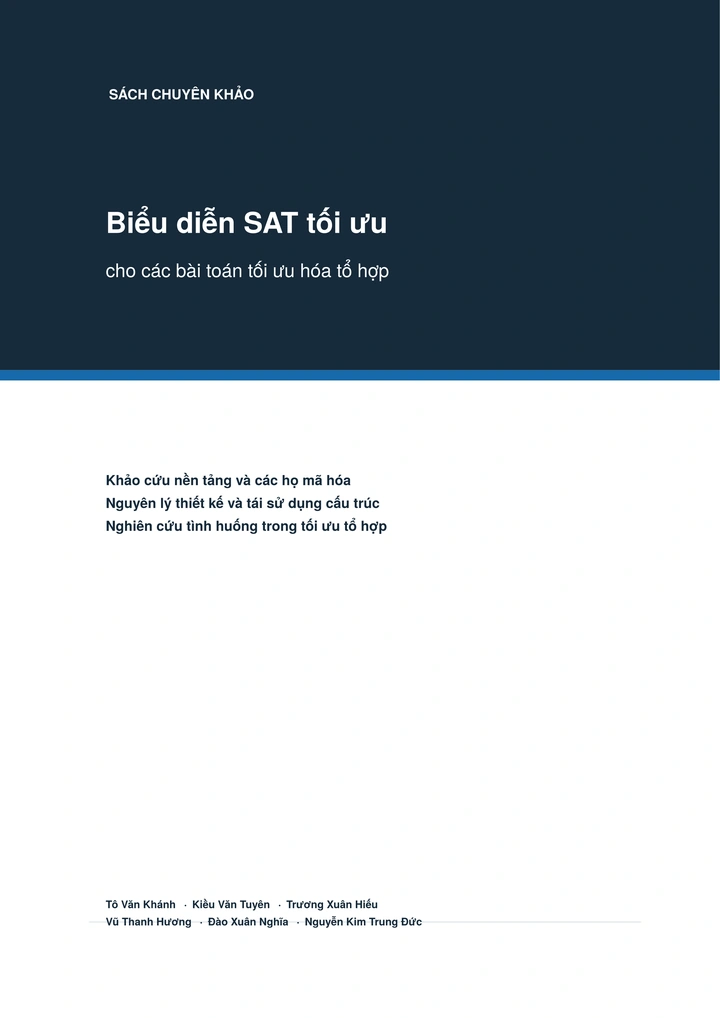
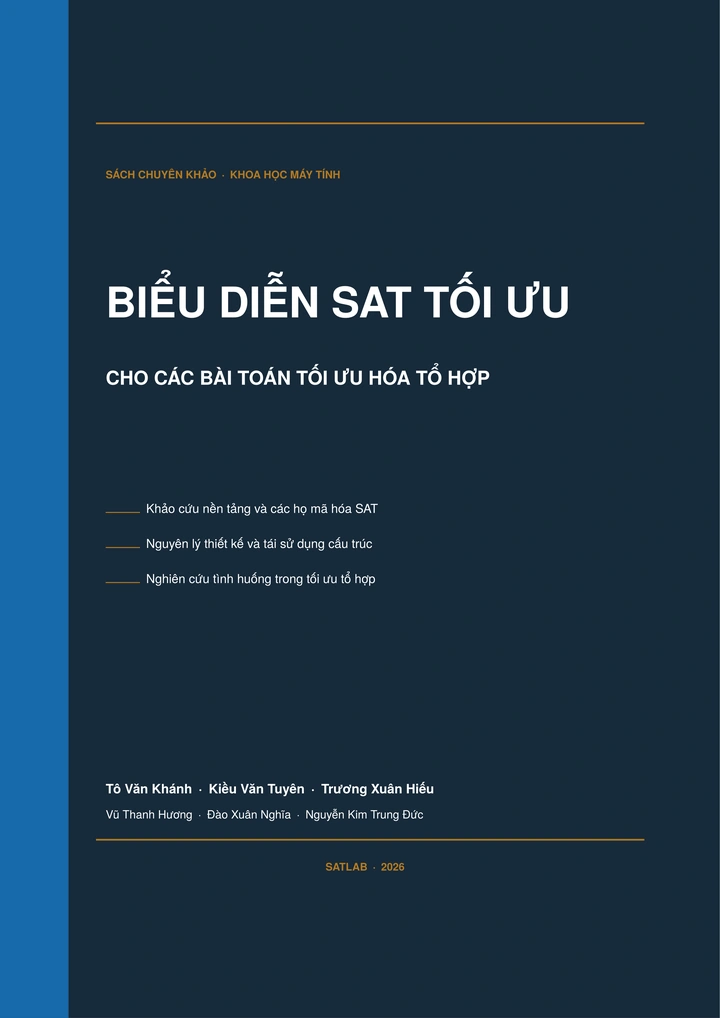
style(book): center SATLAB 2026 on cover titlepage and replace inner title page footer

diff --git a/book/main.tex b/book/main.tex
@@ -28,7 +28,7 @@
 \end{tikzpicture}
 
 \vspace*{18mm}
-{\sffamily\bfseries\fontsize{8.5}{11}\selectfont\color{Gold}%
+{\sffamily\bfseries\fontsize{11}{14}\selectfont\color{Gold}%
  SÁCH CHUYÊN KHẢO\enspace·\enspace KHOA HỌC MÁY TÍNH\par}
 
 \vspace{22mm}
@@ -38,16 +38,16 @@
 
 \vspace{10mm}
 
-{\sffamily\fontsize{18}{24}\selectfont\color{white}%
- Cho Các Bài Toán Tối Ưu Hóa Tổ Hợp\par}
+{\sffamily\bfseries\fontsize{20}{26}\selectfont\color{white}%
+ CHO CÁC BÀI TOÁN TỐI ƯU HÓA TỔ HỢP\par}
 
-\vspace{32mm}
+\vspace{30mm}
 
-{\sffamily\fontsize{11}{18}\selectfont\color{white}%
+{\sffamily\fontsize{12.5}{20}\selectfont\color{white}%
  {\color{Gold}\rule{10mm}{0.8pt}}\enspace
- Khảo cứu nền tảng và các họ mã hóa SAT\par\vspace{7pt}%
+ Khảo cứu nền tảng và các họ mã hóa SAT\par\vspace{8pt}%
  {\color{Gold}\rule{10mm}{0.8pt}}\enspace
- Nguyên lý thiết kế và tái sử dụng cấu trúc\par\vspace{7pt}%
+ Nguyên lý thiết kế và tái sử dụng cấu trúc\par\vspace{8pt}%
  {\color{Gold}\rule{10mm}{0.8pt}}\enspace
  Nghiên cứu tình huống trong tối ưu tổ hợp\par}
 
@@ -64,8 +64,8 @@
  Nguyễn Kim Trung Đức\par}
 
 \vspace{10mm}
-{\sffamily\bfseries\fontsize{8}{10}\selectfont\color{Gold}%
- SATLAB RESEARCH GROUP\enspace·\enspace 2026\par}
+{\centering\sffamily\bfseries\fontsize{11}{14}\selectfont\color{Gold}%
+ SATLAB\enspace·\enspace 2026\par}
 \vspace{16mm}
 
 \end{titlepage}
@@ -84,19 +84,18 @@
 {\sffamily\bfseries\fontsize{30}{35}\selectfont\color{Ink}%
  BIỂU DIỄN SAT TỐI ƯU\par}
 \vspace{5mm}
-{\sffamily\fontsize{15}{20}\selectfont\color{Ink}%
- Cho Các Bài Toán Tối Ưu Hóa Tổ Hợp\par}
+{\sffamily\bfseries\fontsize{15}{20}\selectfont\color{Ink}%
+ CHO CÁC BÀI TOÁN TỐI ƯU HÓA TỐ HỢP\par}
 \vspace{14mm}
 {\color{Blue}\rule{0.4\textwidth}{0.7pt}\par}
 \vspace{14mm}
-{\sffamily\fontsize{12.5}{18}\selectfont\color{Ink}%
+{\sffamily\fontsize{13}{19}\selectfont\color{Ink}%
  Tô Văn Khánh \quad Vũ Thanh Hương\par
  Kiều Văn Tuyên \quad Đào Xuân Nghĩa\par
  Trương Xuân Hiếu \quad Nguyễn Kim Trung Đức\par}
 \vspace{18mm}
-{\sffamily\fontsize{9}{12}\selectfont\color{Ink!70}%
- SATLAB Research Group\par
- Trường Đại học Công nghệ Thông tin, ĐH Quốc gia TP.HCM\par}
+{\sffamily\bfseries\fontsize{11}{14}\selectfont\color{Ink!80}%
+ SATLAB\enspace·\enspace 2026\par}
 \par}
 \vfill
 \noindent{\color{Rule}\rule{\linewidth}{0.5pt}\par}
